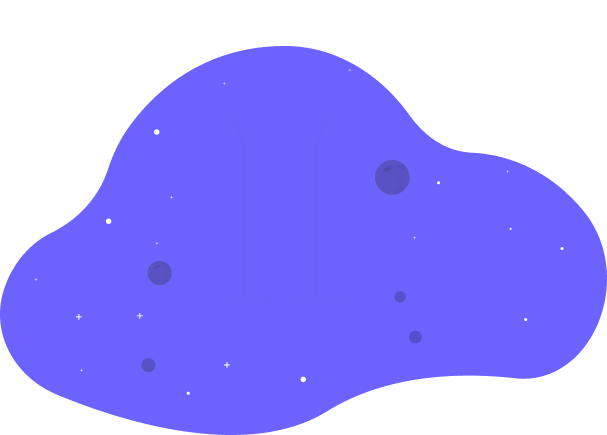
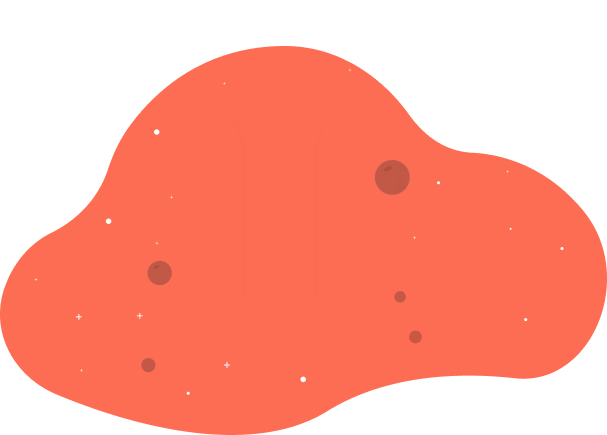
Alterando cor de destaque

diff --git a/style.css b/style.css
@@ -9,6 +9,7 @@
     --secondary-white: #ecebeb;
     --primary-purple: #6c63ff;
     --primary-black: black;
+    --primary-orange: #FD6D54;
 }
 
 body {
@@ -58,7 +59,7 @@ body {
 .boxHeader h1 {
     font-family: 'Poppins', sans-serif;
     font-weight: 700;
-    color: var(--primary-purple);
+    color: var(--primary-orange);
     font-size: 4rem;
     margin-right: 1.5rem;
 }
@@ -144,7 +145,7 @@ body {
     font-family: 'Poppins', sans-serif;
     font-size: 1.3rem;
     padding: 10px;
-    background-color: var(--primary-purple);
+    background-color: #eb6249;
     color: var(--primary-white);
     border: none;
     border-radius: 5px;
@@ -152,7 +153,7 @@ body {
 }
 
 .boxButton button:hover {
-    background-color: #7438ed;
+    background-color: #c7523d;
 }
 
 .countdownContainer {
@@ -245,7 +246,7 @@ body {
     }
 
     80% {
-        transform: translateY(-40rem);
+        transform: translateY(-70rem);
     }
 
     100% {

diff --git a/index.html b/index.html
@@ -20,7 +20,7 @@
                 <div class="header">
                     <div class="boxHeader">
                         <h1>Tempo Maker</h1>
-                        <svg xmlns="http://www.w3.org/2000/svg" width="50" height="50" fill="#6c63ff"
+                        <svg xmlns="http://www.w3.org/2000/svg" width="50" height="50" fill="#FD6D54"
                             class="bi bi-stopwatch-fill" viewBox="0 0 16 16">
                             <path
                                 d="M6.5 0a.5.5 0 0 0 0 1H7v1.07A7.001 7.001 0 0 0 8 16a7 7 0 0 0 5.29-11.584.531.531 0 0 0 .013-.012l.354-.354.353.354a.5.5 0 1 0 .707-.707l-1.414-1.415a.5.5 0 1 0-.707.707l.354.354-.354.354a.717.717 0 0 0-.012.012A6.973 6.973 0 0 0 9 2.071V1h.5a.5.5 0 0 0 0-1h-3zm2 5.6V9a.5.5 0 0 1-.5.5H4.5a.5.5 0 0 1 0-1h3V5.6a.5.5 0 1 1 1 0z" />
